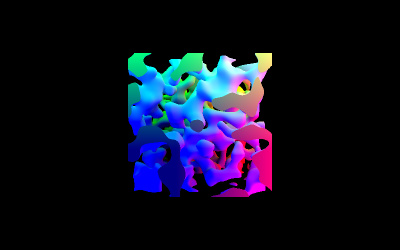
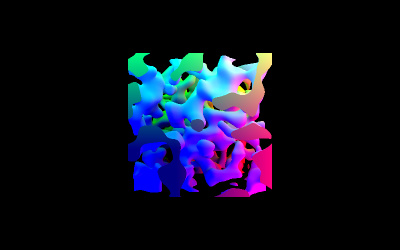
Examples: Simplified webgl2_volume_perlin.

diff --git a/examples/webgl2_volume_perlin.html b/examples/webgl2_volume_perlin.html
@@ -52,8 +52,8 @@
 				const data = new Uint8Array( size * size * size );
 
 				let i = 0;
-				const scale = 0.051;
 				const perlin = new ImprovedNoise();
+				const vector = new THREE.Vector3();
 
 				for ( let z = 0; z < size; z ++ ) {
 
@@ -61,8 +61,11 @@
 
 						for ( let x = 0; x < size; x ++ ) {
 
-							data[ i ] = 128 + 128 * perlin.noise( x * scale, y * scale, z * scale );
-							i ++;
+							vector.set( x, y, z ).divideScalar( size );
+
+							const d = perlin.noise( vector.x * 6.5, vector.y * 6.5, vector.z * 6.5 );
+
+							data[ i ++ ] = d * 128 + 128;
 
 						}
 
